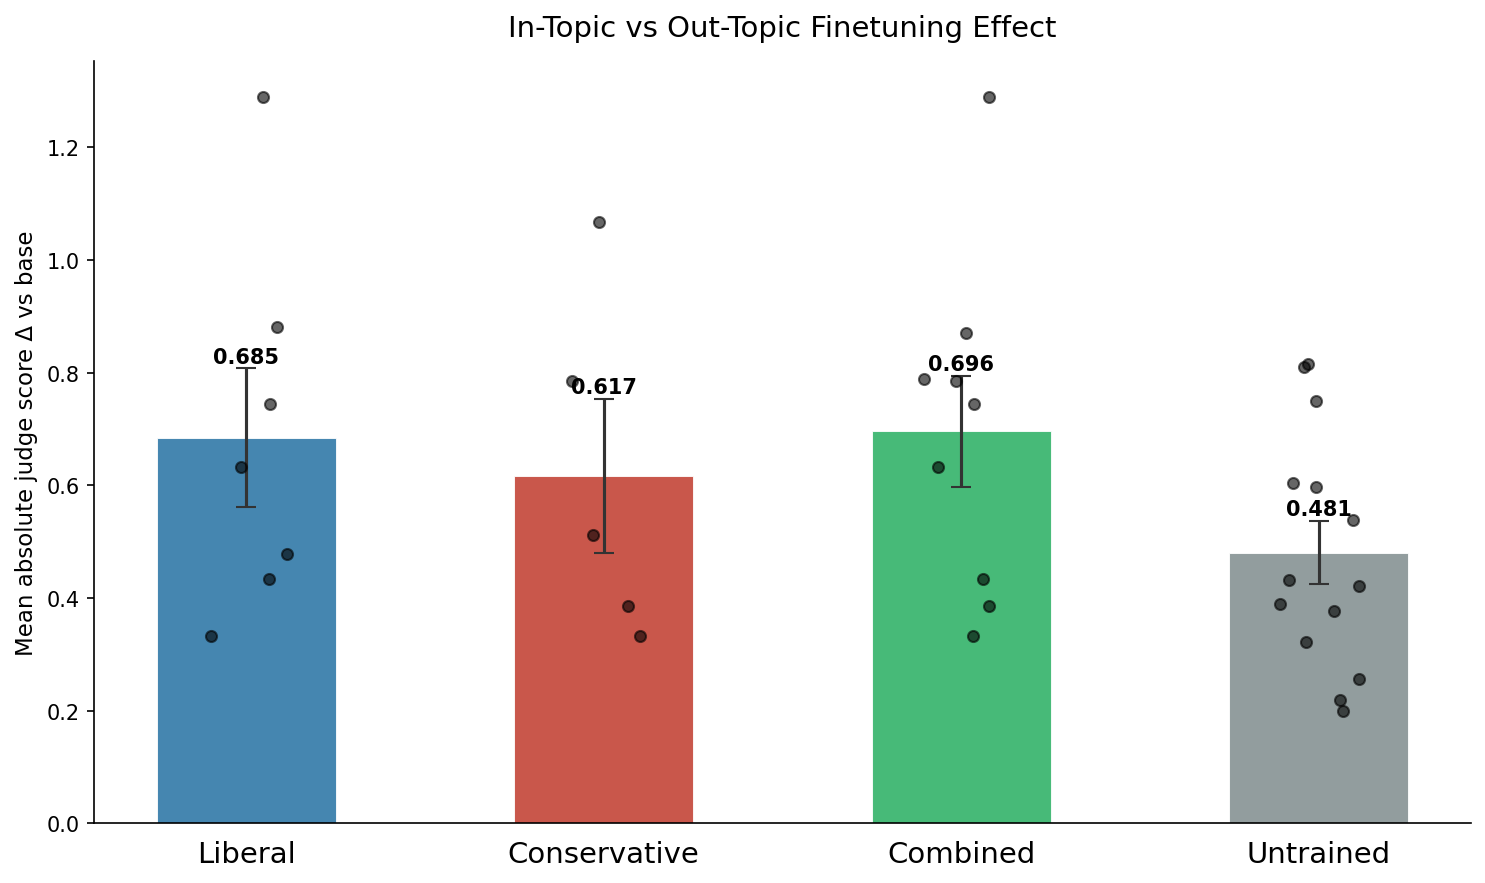
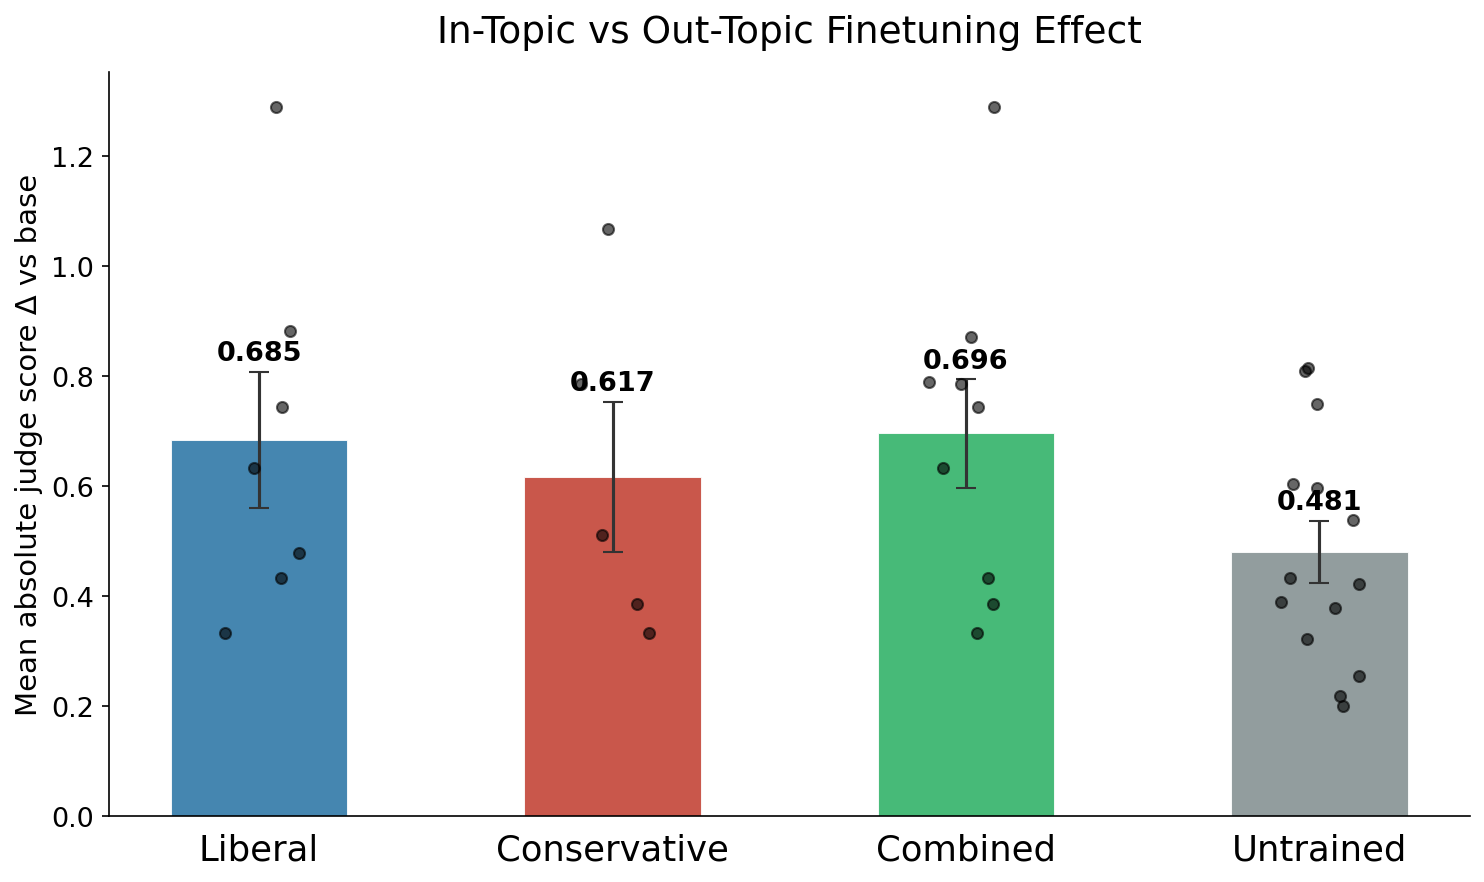
Updated label size.

diff --git a/tinker_cookbook/recipes/experiments/experiment002/src/generate_pattern1_topic_dots.py b/tinker_cookbook/recipes/experiments/experiment002/src/generate_pattern1_topic_dots.py
@@ -124,18 +124,19 @@ def plot_pattern1_topic_dots(data: dict, out: Path) -> None:
         ax.scatter(xi + jitter, pts, color="black", s=28, alpha=0.6, zorder=5)
 
     ax.set_xticks(x)
-    ax.set_xticklabels(bar_labels, fontsize=14)
+    ax.set_xticklabels(bar_labels, fontsize=17)
     ax.tick_params(axis="x", which="both", length=0, pad=8)
-    ax.set_ylabel("Mean absolute judge score Δ vs base", fontsize=11)
+    ax.tick_params(axis="y", labelsize=13)
+    ax.set_ylabel("Mean absolute judge score Δ vs base", fontsize=14)
     ax.set_title(
         "In-Topic vs Out-Topic Finetuning Effect",
-        fontsize=14, fontweight="normal", pad=12,
+        fontsize=18, fontweight="normal", pad=14,
     )
     for spine in ("top", "right"):
         ax.spines[spine].set_visible(False)
     ax.set_ylim(0, None)
     for xi, (v, e) in enumerate(zip(bar_vals, bar_errors)):
-        ax.text(xi, v + e + 0.01, f"{v:.3f}", ha="center", fontsize=10,
+        ax.text(xi, v + e + 0.02, f"{v:.3f}", ha="center", fontsize=13,
                 fontweight="bold")
 
     plt.tight_layout()
